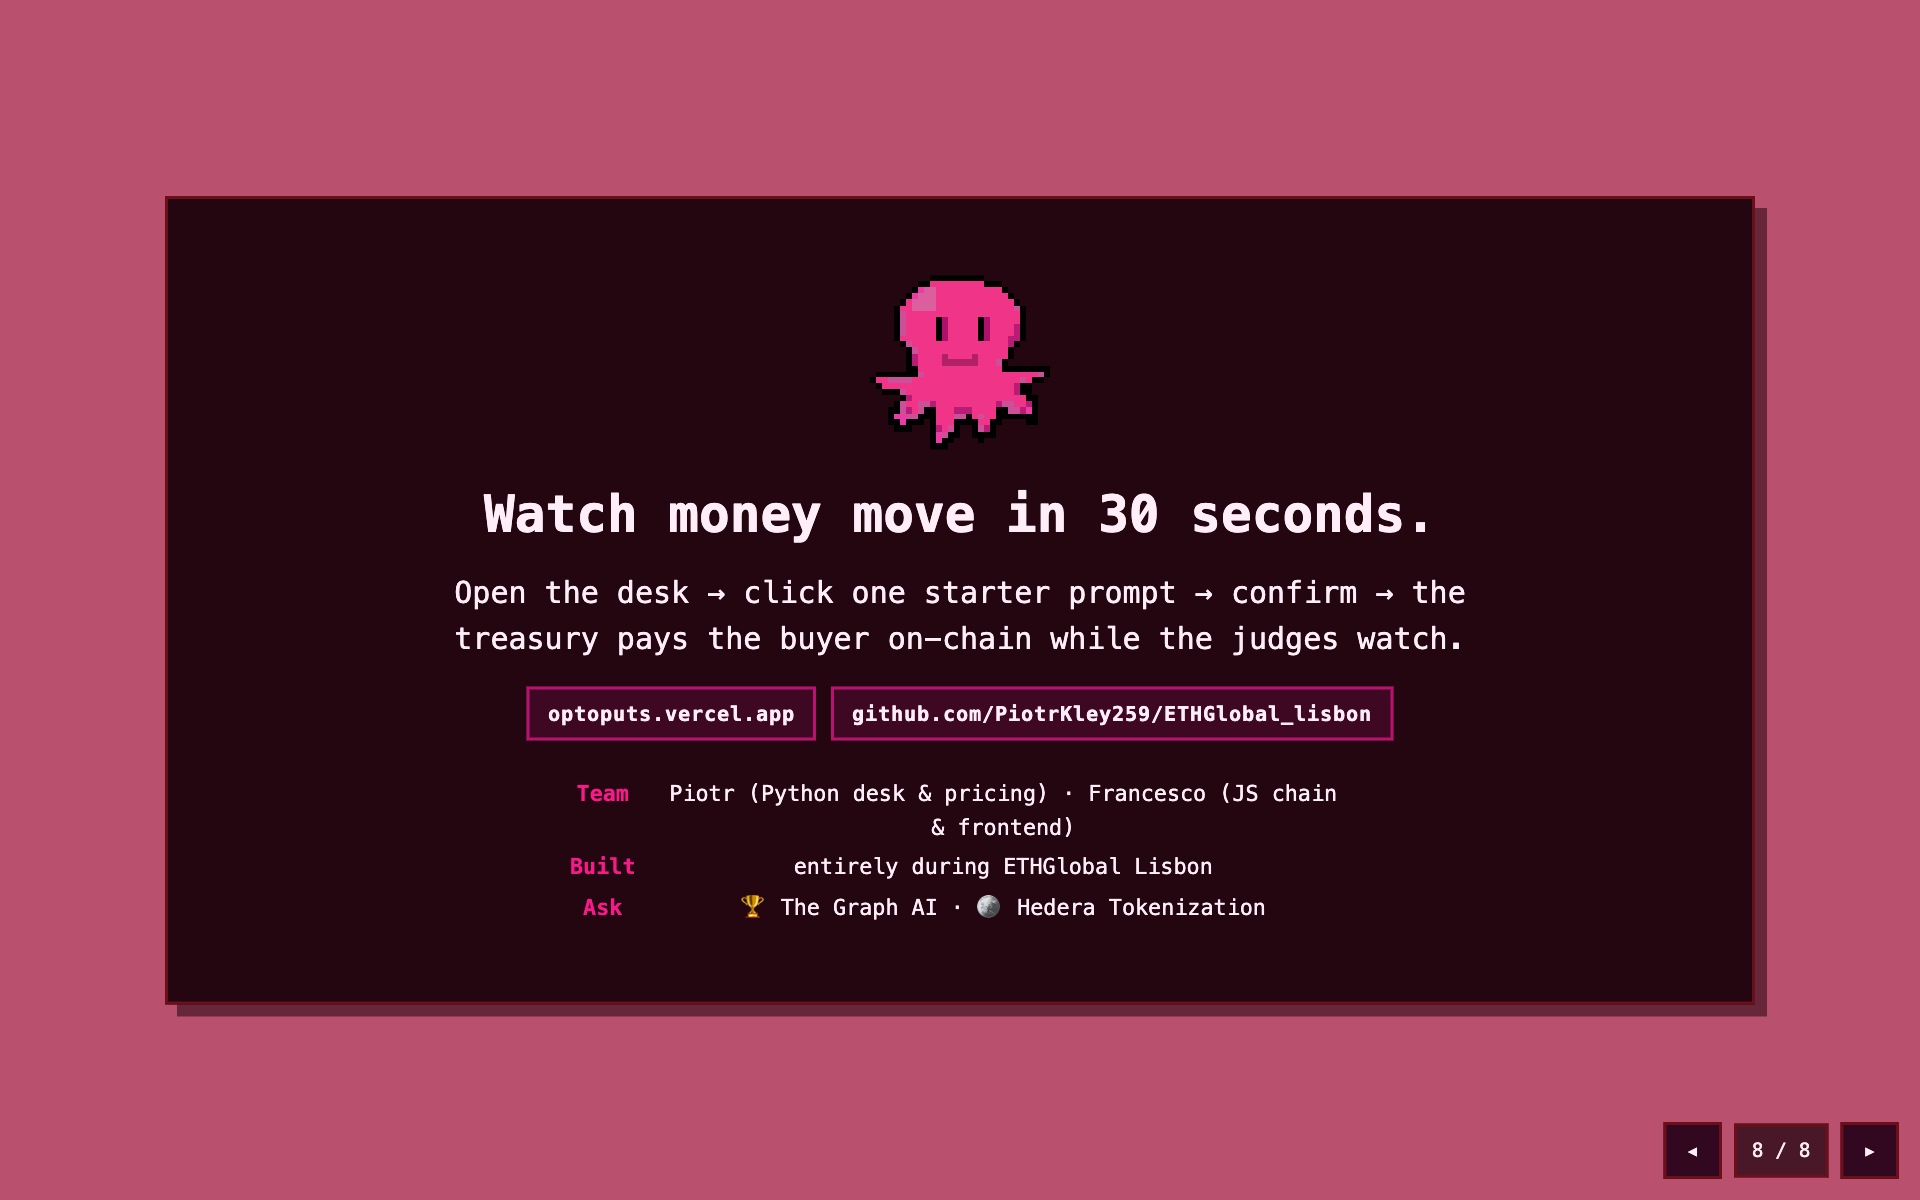
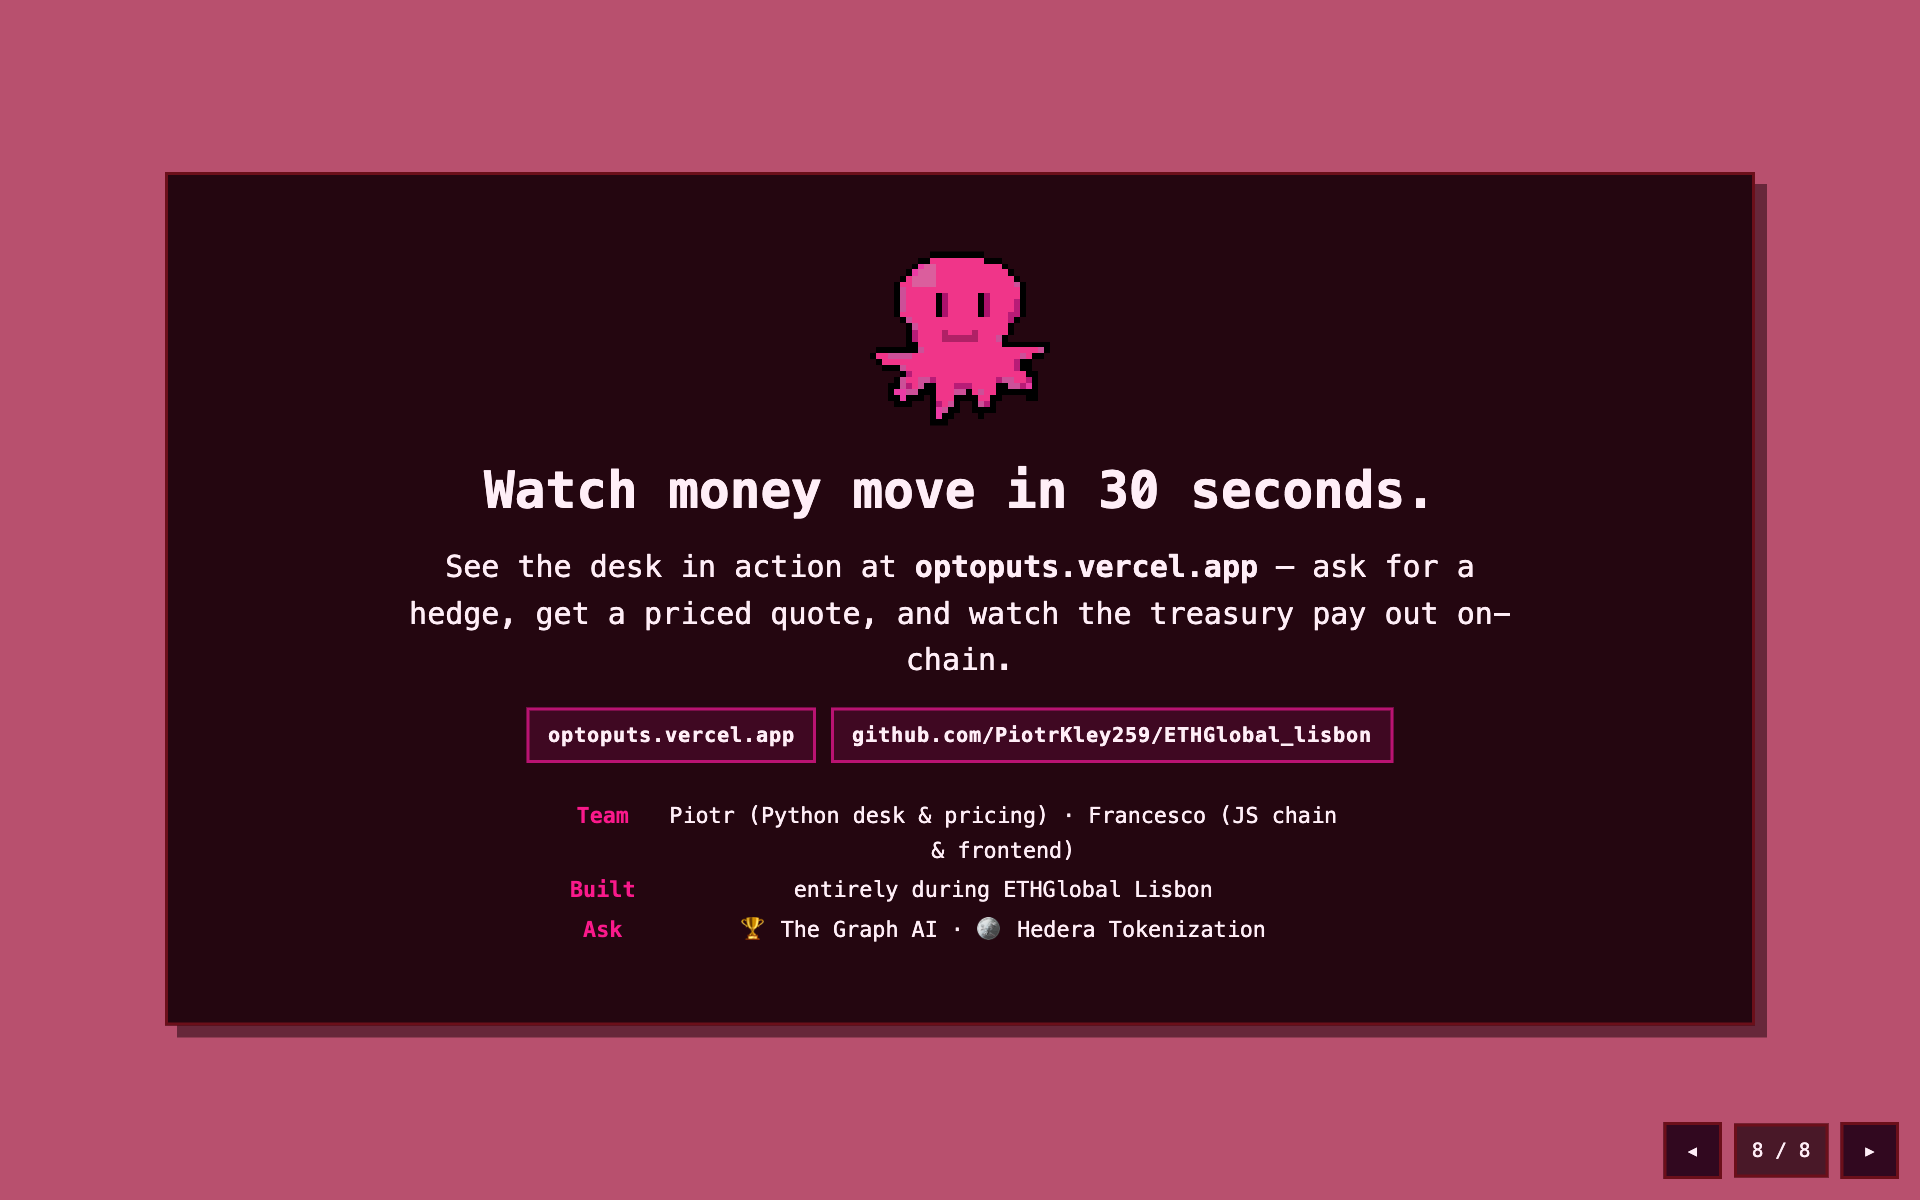
Deck close slide: point viewers to the live site instead of demo steps

diff --git a/docs/pitch-deck.html b/docs/pitch-deck.html
@@ -322,7 +322,7 @@
 <section class="slide" id="s9"><div class="card cover stack">
[1 lines of base64/hex data omitted]
   <h2 style="margin:0">Watch money move in 30 seconds.</h2>
-  <p class="lede" style="margin:0 auto">Open the desk → click one starter prompt → confirm → the treasury pays the buyer on-chain while the judges watch.</p>
+  <p class="lede" style="margin:0 auto">See the desk in action at <b>optoputs.vercel.app</b> — ask for a hedge, get a priced quote, and watch the treasury pay out on-chain.</p>
   <div class="row" style="justify-content:center">
     <span class="chip">optoputs.vercel.app</span>
     <span class="chip">github.com/PiotrKley259/ETHGlobal_lisbon</span>

diff --git a/frontend/public/pitch-deck.html b/frontend/public/pitch-deck.html
@@ -322,7 +322,7 @@
 <section class="slide" id="s9"><div class="card cover stack">
[1 lines of base64/hex data omitted]
   <h2 style="margin:0">Watch money move in 30 seconds.</h2>
-  <p class="lede" style="margin:0 auto">Open the desk → click one starter prompt → confirm → the treasury pays the buyer on-chain while the judges watch.</p>
+  <p class="lede" style="margin:0 auto">See the desk in action at <b>optoputs.vercel.app</b> — ask for a hedge, get a priced quote, and watch the treasury pay out on-chain.</p>
   <div class="row" style="justify-content:center">
     <span class="chip">optoputs.vercel.app</span>
     <span class="chip">github.com/PiotrKley259/ETHGlobal_lisbon</span>
